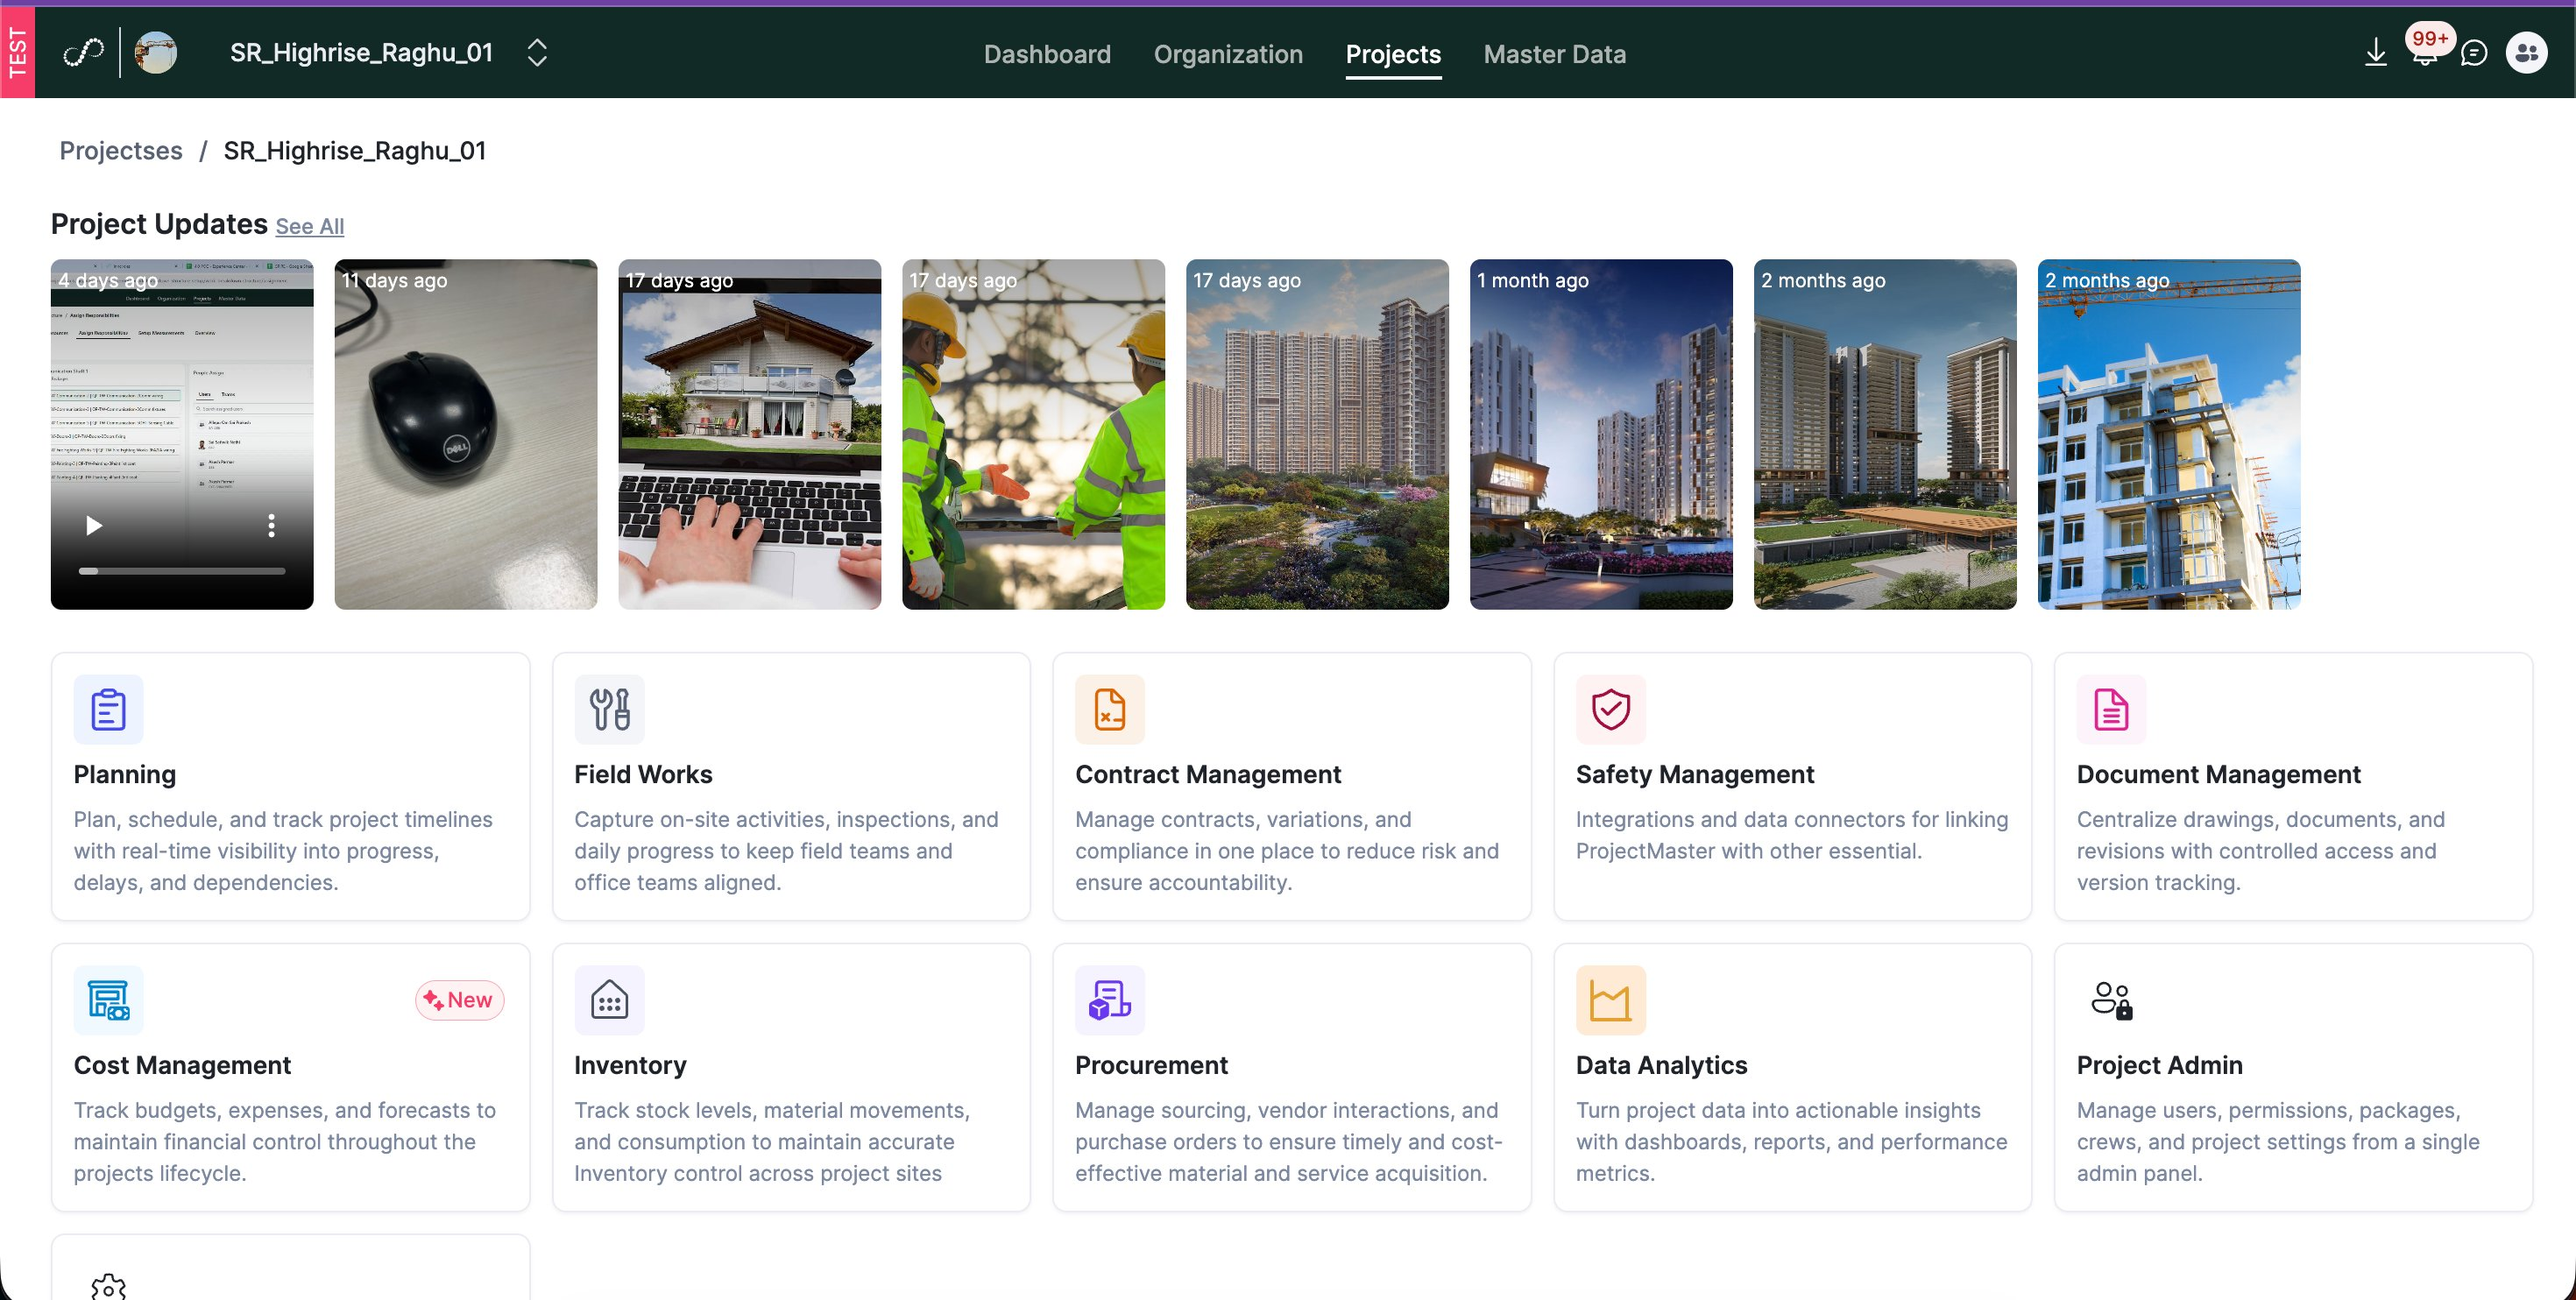
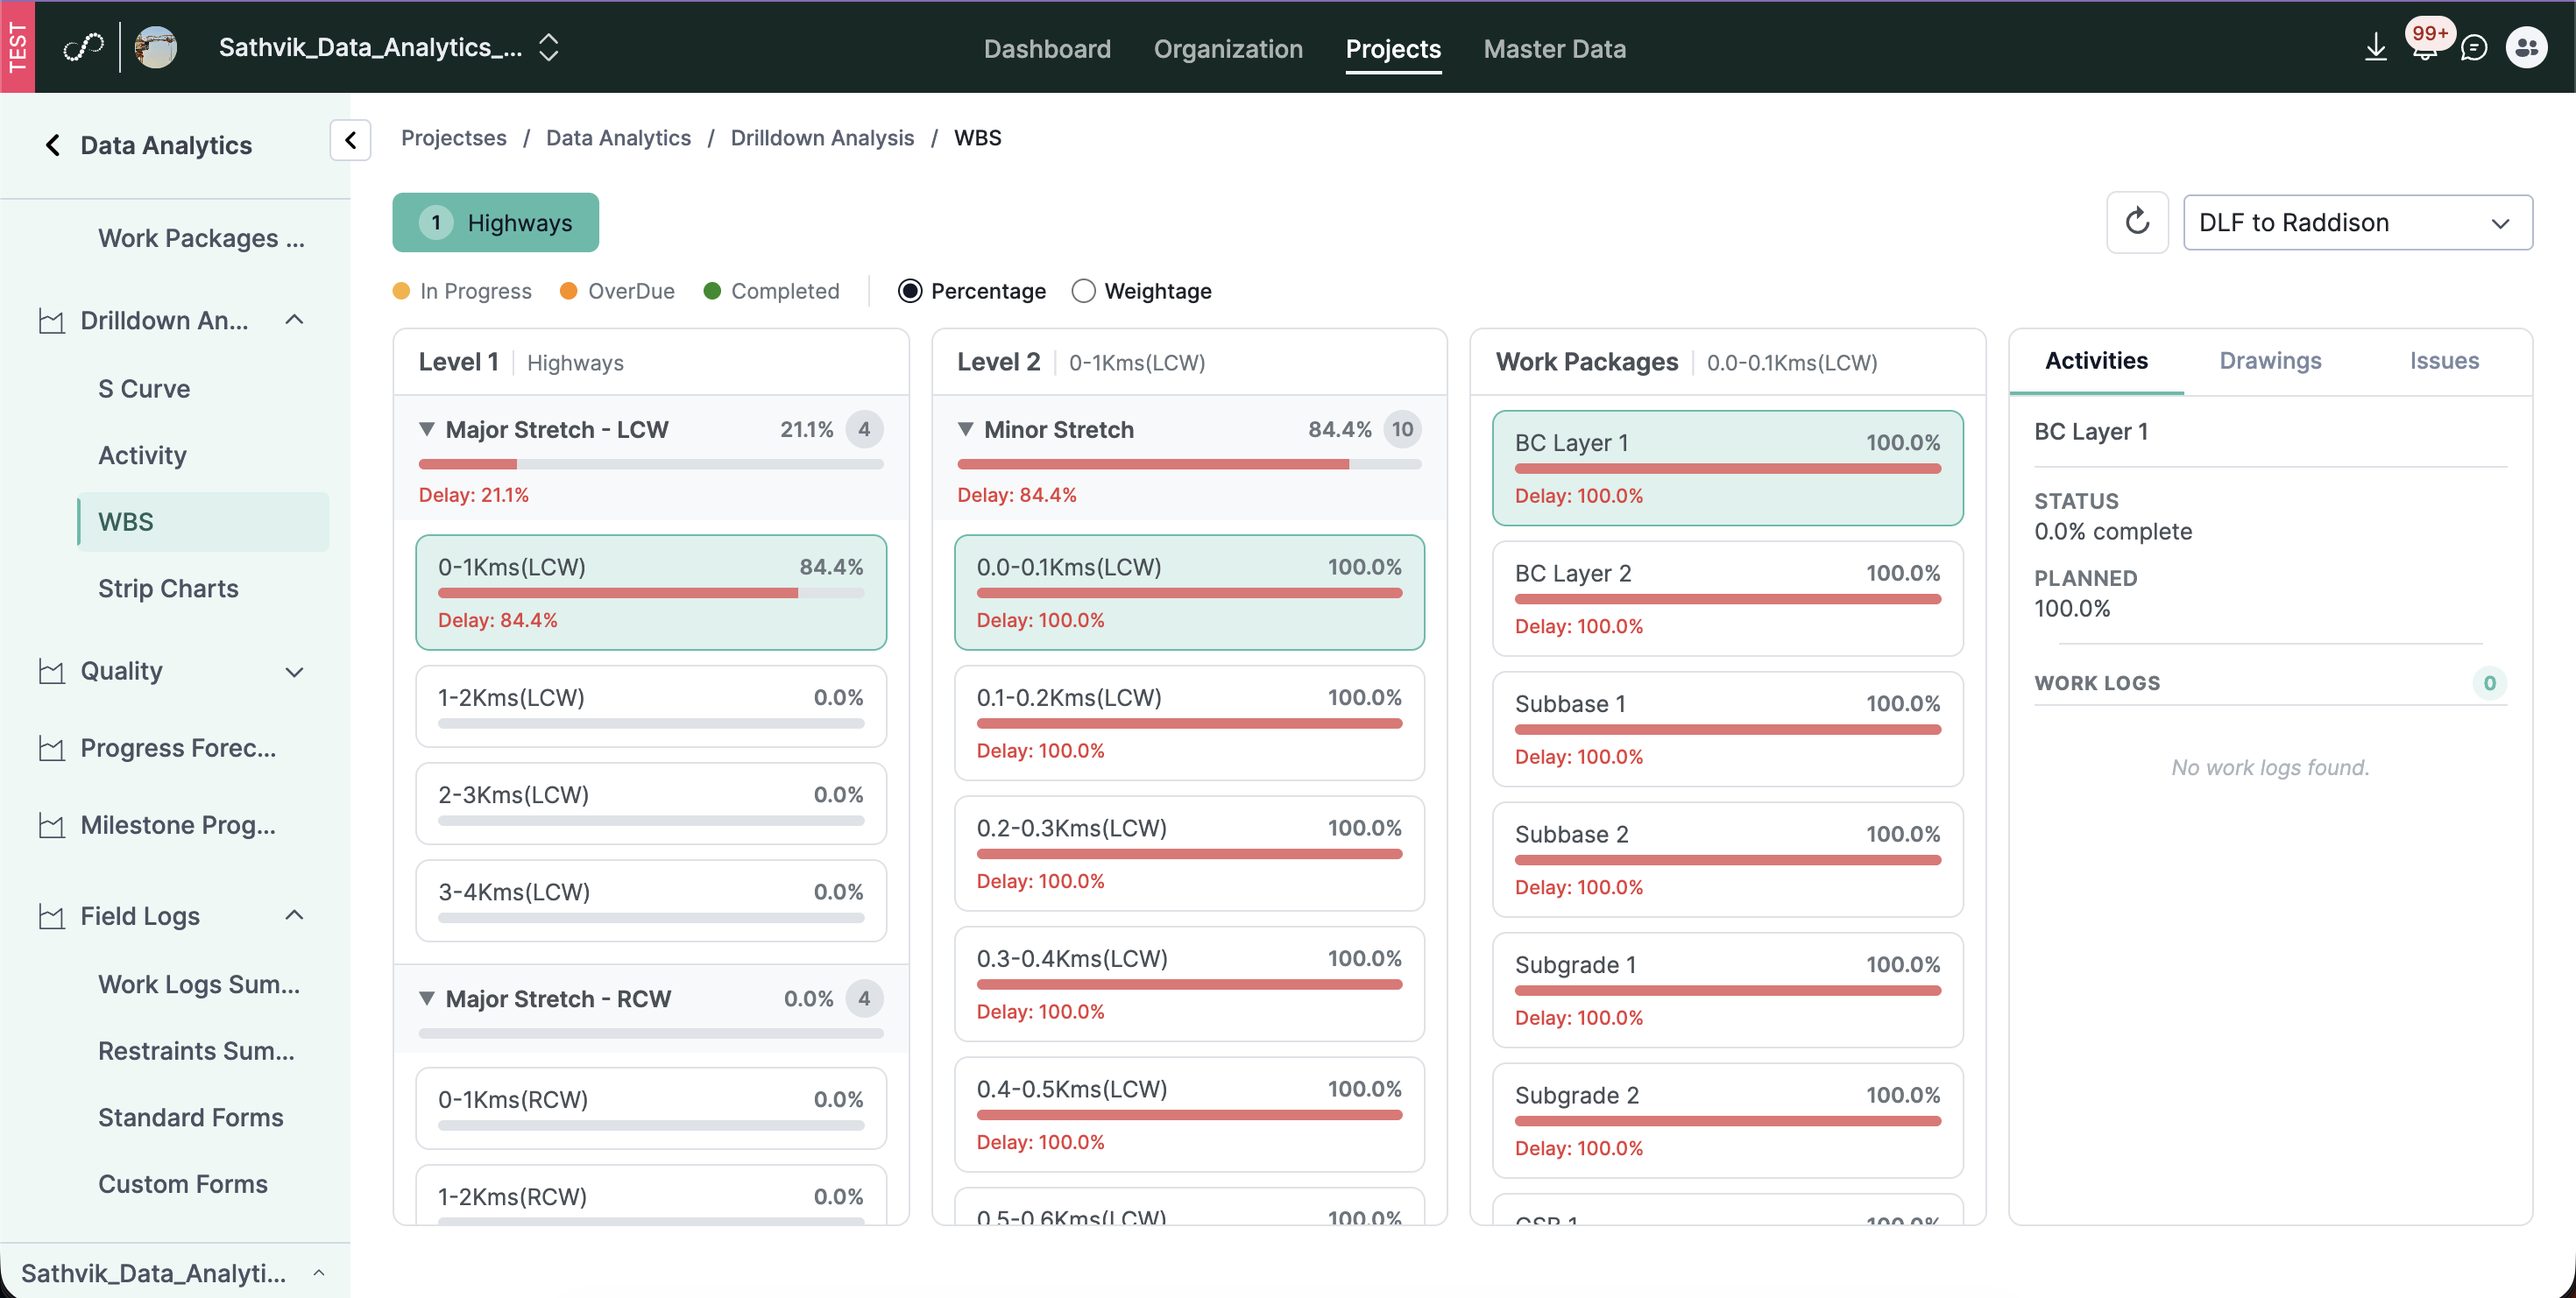
Update index and images

diff --git a/index.html b/index.html
@@ -67,8 +67,8 @@ nav { position: fixed; top: 0; left: 0; right: 0; z-index: 100; background: rgba
 .tools-inner { max-width: var(--max); margin: 0 auto; display: flex; align-items: center; gap: 16px; flex-wrap: wrap; justify-content: center; }
 .tools-label { font-size: 11px; font-weight: 700; letter-spacing: 1.5px; text-transform: uppercase; color: var(--text3); white-space: nowrap; }
 .tools-pills { display: flex; gap: 10px; flex-wrap: wrap; justify-content: center; }
-.tool-pill { font-size: 13px; font-weight: 600; color: var(--text2); background: rgba(255,255,255,0.05); border: 1px solid rgba(255,255,255,0.1); border-radius: 100px; padding: 6px 16px; transition: all 0.2s; }
-.tool-pill:hover { color: var(--text); border-color: rgba(255,255,255,0.22); background: rgba(255,255,255,0.08); }
+.tool-pill { font-size: 13px; font-weight: 600; color: var(--teal2); background: linear-gradient(135deg, rgba(61,158,148,0.12), rgba(91,191,181,0.06)); border: 1px solid rgba(61,158,148,0.2); border-radius: 100px; padding: 6px 16px; transition: all 0.2s; }
+.tool-pill:hover { color: #7dd4cc; background: linear-gradient(135deg, rgba(61,158,148,0.22), rgba(91,191,181,0.12)); border-color: rgba(61,158,148,0.4); }
 
 /* SECTION */
 .section { position: relative; z-index: 1; max-width: var(--max); margin: 0 auto; padding: 100px 48px; }
@@ -304,6 +304,7 @@ footer { position: relative; z-index: 1; border-top: 1px solid var(--border); pa
   .nav-links { display: none; }
   .hamburger { display: flex; }
   .section, .mindmap-section { padding: 64px 20px; }
+  #hero { min-height: auto; padding: 80px 24px 48px; }
   .tools-strip { padding: 16px 20px; }
   .work-card { padding: 28px; }
   .card-metrics { gap: 28px; }
@@ -459,14 +460,6 @@ footer { position: relative; z-index: 1; border-top: 1px solid var(--border); pa
   </div>
 </div>
 
-<!-- SKILLS -->
-<div class="section reveal" style="padding-top:0">
-  <div class="section-label"><div class="section-dot"></div><span class="section-title">Skills</span></div>
-  <div class="skills-grid">
-    <span class="skill-pill">Field User Research</span><span class="skill-pill">AI Product Design</span><span class="skill-pill">Design Systems</span><span class="skill-pill">UX Strategy</span><span class="skill-pill">Interaction Design</span><span class="skill-pill">Usability Testing</span><span class="skill-pill">Wireframing</span><span class="skill-pill">Prototyping</span><span class="skill-pill">WCAG Accessibility</span><span class="skill-pill">Data Visualization</span><span class="skill-pill">Mobile-First Design</span><span class="skill-pill">A/B Testing</span><span class="skill-pill">Growth Design</span><span class="skill-pill">Dev Collaboration</span><span class="skill-pill">Design Leadership</span><span class="skill-pill">Product Marketing</span><span class="skill-pill">Cross-Cultural Research</span><span class="skill-pill">Prompt UX</span>
-  </div>
-</div>
-
 <!-- EXPERIENCE -->
 <div class="section reveal" style="padding-top:0">
   <div class="section-label"><div class="section-dot"></div><span class="section-title">Experience</span></div>
@@ -495,6 +488,14 @@ footer { position: relative; z-index: 1; border-top: 1px solid var(--border); pa
       <p class="exp-date">May - Aug 2020, Hyderabad</p>
       <p class="exp-note">Designed the Covid-19 Diagnostic System, published in the Indian Patent Office Journal 32/2020. Received government recognition from Telangana State.</p>
     </div>
+  </div>
+</div>
+
+<!-- SKILLS -->
+<div class="section reveal" style="padding-top:0">
+  <div class="section-label"><div class="section-dot"></div><span class="section-title">Skills</span></div>
+  <div class="skills-grid">
+    <span class="skill-pill">Field User Research</span><span class="skill-pill">AI Product Design</span><span class="skill-pill">Design Systems</span><span class="skill-pill">UX Strategy</span><span class="skill-pill">Interaction Design</span><span class="skill-pill">Usability Testing</span><span class="skill-pill">Wireframing</span><span class="skill-pill">Prototyping</span><span class="skill-pill">WCAG Accessibility</span><span class="skill-pill">Data Visualization</span><span class="skill-pill">Mobile-First Design</span><span class="skill-pill">A/B Testing</span><span class="skill-pill">Growth Design</span><span class="skill-pill">Dev Collaboration</span><span class="skill-pill">Design Leadership</span><span class="skill-pill">Product Marketing</span><span class="skill-pill">Cross-Cultural Research</span><span class="skill-pill">Prompt UX</span>
   </div>
 </div>
 
@@ -581,10 +582,10 @@ footer { position: relative; z-index: 1; border-top: 1px solid var(--border); pa
 <div class="cs-img-grid">
   <h2 class="cs-h2">Screens</h2>
   <div class="img-grid-4">
-    <div class="img-cell"><img src="inndoc-grid.png" alt="InnDoc Screens"><span class="img-lbl">Contract Document + Prompt Library</span></div>
-    <div class="img-cell"><img src="inndoc-3.png" alt="Contract Document View"><span class="img-lbl">Contract Document View</span></div>
-    <div class="img-cell"><img src="inndoc-4.png" alt="Prompt Library"><span class="img-lbl">Prompt Library</span></div>
-    <div class="img-cell"><img src="inndoc-5.png" alt="AI Chatbot"><span class="img-lbl">AI Chatbot Interface</span></div>
+    <div class="img-cell"><img src="inndoc-grid.png" alt="InnDoc Screens"></div>
+    <div class="img-cell"><img src="inndoc-3.png" alt="Contract Document View"></div>
+    <div class="img-cell"><img src="inndoc-4.png" alt="Prompt Library"></div>
+    <div class="img-cell"><img src="inndoc-5.png" alt="AI Chatbot"></div>
   </div>
 </div>
 <div class="cs-stack">
@@ -636,10 +637,10 @@ footer { position: relative; z-index: 1; border-top: 1px solid var(--border); pa
 <div class="cs-img-grid">
   <h2 class="cs-h2">Screens</h2>
   <div class="img-grid-4">
-    <div class="img-cell"><img src="inncircles-1.png" alt="WBS Planning"><span class="img-lbl">Work Breakdown Structure</span></div>
-    <div class="img-cell"><img src="inncircles-2.png" alt="Quality Logs"><span class="img-lbl">Quality Inspection Logs</span></div>
-    <div class="img-cell"><img src="inncircles-3.png" alt="Admin Center"><span class="img-lbl">Admin Center</span></div>
-    <div class="img-cell"><img src="inncircles-4.png" alt="Project Dashboard"><span class="img-lbl">Project Dashboard</span></div>
+    <div class="img-cell"><img src="inncircles-1.png" alt="WBS Planning"></div>
+    <div class="img-cell"><img src="inncircles-2.png" alt="Quality Logs"></div>
+    <div class="img-cell"><img src="inncircles-3.png" alt="Admin Center"></div>
+    <div class="img-cell"><img src="inncircles-4.png" alt="Project Dashboard"></div>
   </div>
 </div>
 <div class="cs-stack">
@@ -691,10 +692,10 @@ footer { position: relative; z-index: 1; border-top: 1px solid var(--border); pa
 <div class="cs-img-grid">
   <h2 class="cs-h2">Screens and Prototype</h2>
   <div class="img-grid-4">
-    <div class="img-cell"><img src="breathe-grid.png" alt="Breath-IN-Vest Screens"><span class="img-lbl">T-Hub Award + App Screen + Research + Japan</span></div>
-    <div class="img-cell"><img src="breathe-4.jpg" alt="T-Hub Award"><span class="img-lbl">T-Hub Award, Hyderabad</span></div>
-    <div class="img-cell"><img src="breathe-2.png" alt="App Start Screen"><span class="img-lbl">App Start Screen</span></div>
-    <div class="img-cell"><img src="breathe-5.png" alt="Road to Shine Japan"><span class="img-lbl">Road to Shine, Japan</span></div>
+    <div class="img-cell"><img src="breathe-grid.png" alt="Breath-IN-Vest Screens"></div>
+    <div class="img-cell"><img src="breathe-4.jpg" alt="T-Hub Award"></div>
+    <div class="img-cell"><img src="breathe-2.png" alt="App Start Screen"></div>
+    <div class="img-cell"><img src="breathe-5.png" alt="Road to Shine Japan"></div>
   </div>
 </div>
 <div class="cs-stack">
